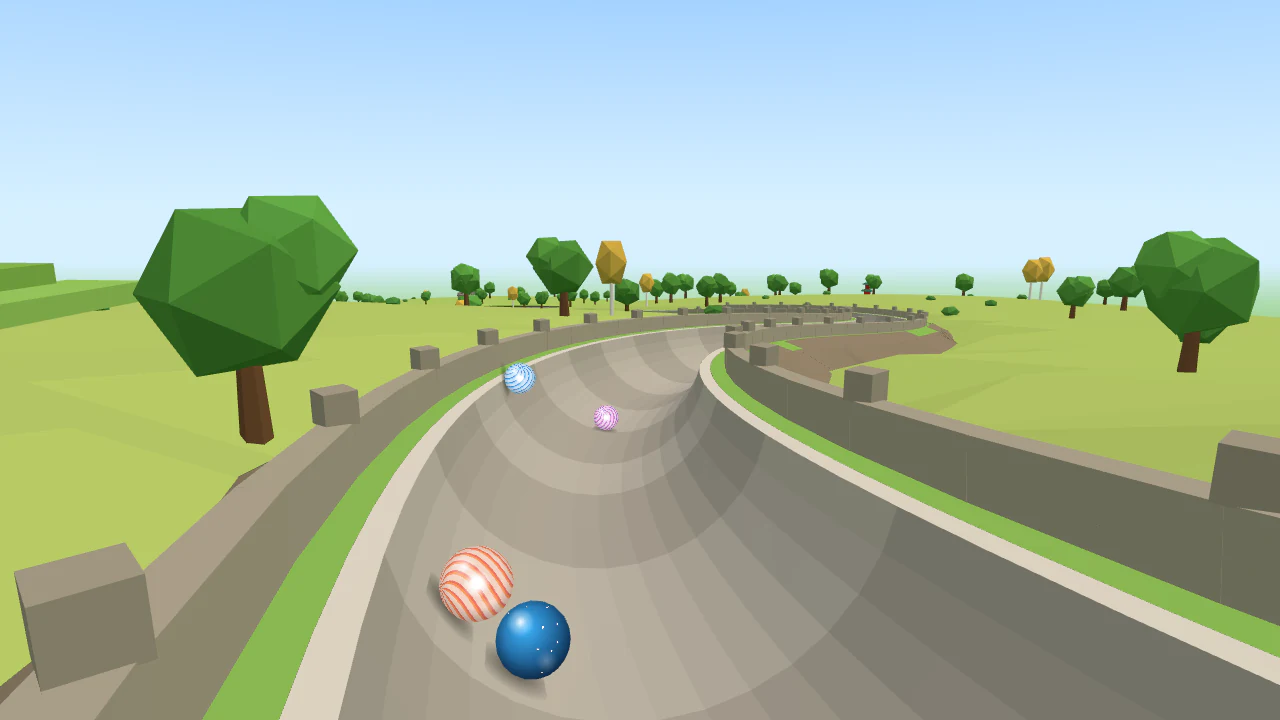
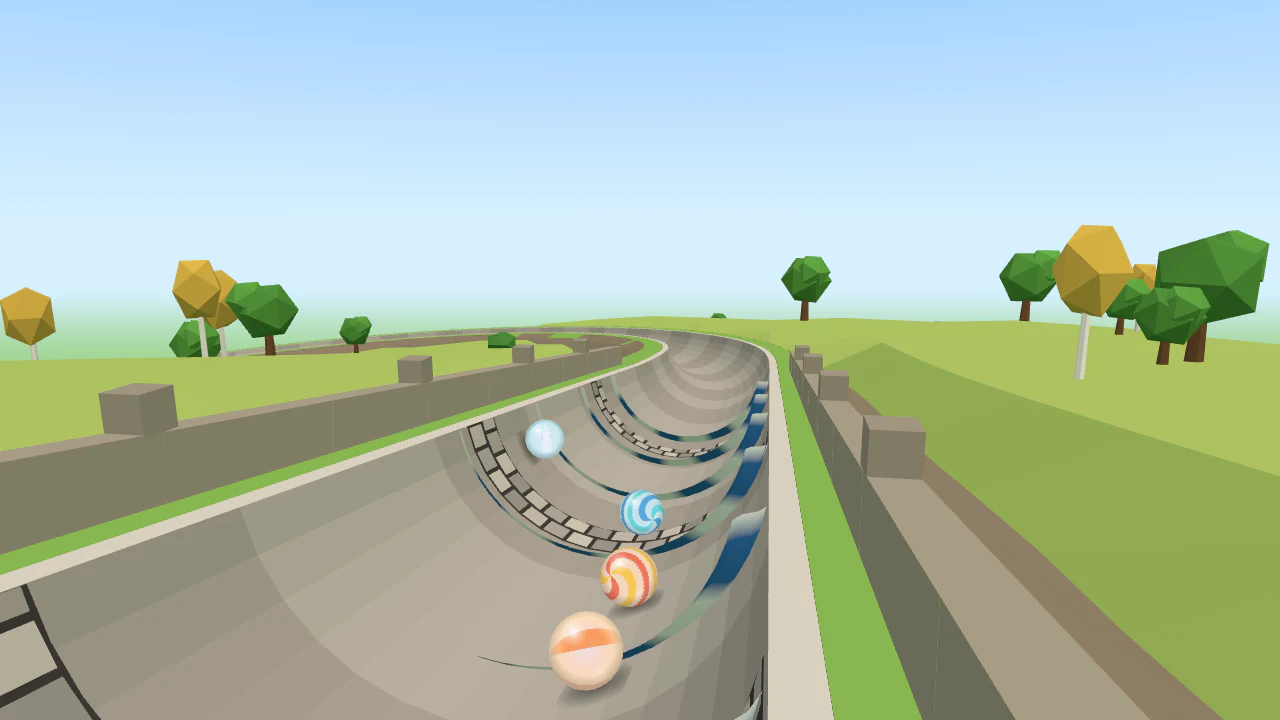
China Wall Twister: its own layout and opening; its records start again
Until now physically the same track as Rio Jungle Rumble. Out through a gate
in the Wall (the tunnel-launch start, the field let go in waves) past the
pandas and lanterns, along the Wall and down its steps, a sweep past the
pagoda, the board-game run, the fortune-cat hairpin, up over a ridge and
through the dragon (the big feature), the pagoda spiral, S-bends past the
rice terraces to the Temple of Heaven. Full report 50/50; Wild 40. Data
updates 2027-07-23. Off the known failures.

Claude-Session: https://claude.ai/code/session_011vSSkqNPL9kncfzrwF15wS

diff --git a/src/tracks/china-wall-twister.js b/src/tracks/china-wall-twister.js
@@ -5,8 +5,8 @@
 // fortune cat stays; the dragon is a tunnel through its body, in at the tail and out of
 // the mouth, so every marble goes through and finishes.
 const {
-  track, plunge, straight, sBends, sweep, spiral, hairpin, splitter, runIn,
-  pileUp, swipe, slalom, peg, boost, bump, paint,
+  track, opening, plunge, straight, climb, sBends, sweep, spiral, hairpin, runIn,
+  swipe, slalom, peg, brake, paint, steps,
 } = require('../trackKit');
 
 module.exports = track({
@@ -20,8 +20,9 @@ module.exports = track({
   variants: ['fog', 'sunset'],
   signature: 'Dragon',
   tvCameras: [
-    { section: 'Dragon', at: 0.8, side: 'left', distance: 6, height: 12 },
-    { section: 'Watchtower splitter', at: 0.8, side: 'right', distance: 6, height: 5 },
+    // (Out of the dragon's mouth, looking back up into it at the field pouring out.)
+    { section: 'Pagoda spiral', at: 0.2, side: 'left', distance: 6, height: 12 },
+    { section: 'Pagoda sweep', at: 0.5, side: 'right', distance: 6, height: 6 },
   ],
   billboardFrame: 'plain',
   // The gate on a watchtower terrace on the Wall, a red-columned hipped-roof hall behind the
@@ -29,27 +30,31 @@ module.exports = track({
   start: { landmark: 'wudian-hall', scenery: ['battlements'], gate: 'stalls', shots: { countdown: 'front', launch: 'look-back' } },
   finish: { landmark: 'temple-of-heaven', scenery: ['forbidden-city'] },
   designChanges: [
-    'A few pandas on the Wall plunge (a pile-up) rather than one, then red lanterns on posts glanced off like slalom gates: with one panda the strongest marbles win too often and the field reaches the splitter sorted by strength.',
+    'Its own layout and opening (Moses, 15 Nov 2026: World Tour re-layouts): out through a gate in the Wall (the tunnel-launch start, the field let go in waves) past the pandas and lanterns, along the Wall and down its steps, a sweep past the pagoda, the board-game run, the fortune-cat hairpin, up over a ridge and through the dragon (the big feature: a long drop through its body, in at the tail and out of the mouth), the pagoda spiral, S-bends past the rice terraces and on to the Temple of Heaven.',
+    'A few pandas at the gate (a pile-up), then red lanterns on posts glanced off like slalom gates.',
   ],
+  // (The tunnel-launch start: down to a gate in the Wall and through it; let go in jittered waves, a new order every
+  // race.)
+  opening: opening('tunnel-launch', {
+    costumes: { block: 'panda', slalom: 'lantern-pole' },
+    names: { portal: 'To the Wall gate', tunnel: 'Through the gate' },
+    waves: { groups: 5, gap: 0.14, jitter: 0.1 },
+  }),
   sections: [
     {
-      name: 'Wall plunge', shape: plunge(80, { grade: 0.6 }),
-      obstacles: [pileUp({ costume: 'panda', at: 0.42 }), slalom({ costume: 'lantern-pole', from: 0.55, to: 0.97, count: 6, loss: 0.3 })],
-      landmarks: [{ name: 'watchtower', at: 0.6, side: 'left', distance: 12 }], scenery: ['battlements'],
-    },
-    { name: 'Ridge S-bends', shape: sBends({ first: 'left', radius: 75, degrees: 80, grade: 0.13 }), scenery: ['battlements'], billboards: 1, landmarks: [{ name: 'rice-terraces', at: 0.3, side: 'right', distance: 30 }] },
-    {
-      name: 'Watchtower splitter', shape: splitter({ side: 'left', balance: { tipOffset: -0.8, left: { drag: 1.32, scrub: 1.32 }, right: { drag: 0.42, scrub: 0.72 } } }),
-      around: 'watchtower',
+      name: 'Along the Wall', shape: straight(70, { grade: 0.15 }), scenery: ['battlements'], billboards: 1,
+      features: [brake({ at: 0.03, length: 8, drag: 0.02 }), steps({ from: 0.45, to: 0.85, count: 6 })],
+      obstacles: [peg({ costume: 'lantern-pole', at: 0.15, line: 'left' }), peg({ costume: 'lantern-pole', at: 0.27, line: 'right' })],
+      landmarks: [{ name: 'watchtower', at: 0.2, side: 'left', distance: 20 }],
     },
     {
-      name: 'Pagoda sweep', shape: sweep({ side: 'right', radius: 80, degrees: 160, grade: 0.07 }), features: [boost({ at: 0.08 })], billboards: 2,
-      landmarks: [{ name: 'pagoda', at: 0.4, side: 'left', distance: 22 }],
+      name: 'Pagoda sweep', shape: sweep({ side: 'right', radius: 80, degrees: 130, grade: 0.13 }), billboards: 1,
+      landmarks: [{ name: 'pagoda', at: 0.4, side: 'left', distance: 30 }],
     },
     {
       // A Go board, then a Xiangqi board, painted on a gently sloping stretch; a few stones and pieces
       // lie on them (glancing hits). It is also the braking zone before the hairpin.
-      name: 'Board-game run', shape: straight(90, { grade: 0.12 }), billboards: 1,
+      name: 'Board-game run', shape: straight(90, { grade: 0.14 }), billboards: 1,
       features: [paint({ from: 0.02, to: 0.48, look: 'go-board' }), paint({ from: 0.52, to: 0.98, look: 'xiangqi' })],
       obstacles: [
         peg({ costume: 'go-stone', at: 0.22, line: 'left' }), peg({ costume: 'go-stone', at: 0.32, line: 'right' }),
@@ -60,9 +65,20 @@ module.exports = track({
       name: 'Fortune-cat hairpin', shape: hairpin({ side: 'left' }), obstacles: [swipe({ costume: 'fortune-cat', side: 'high' })],
       landmarks: [{ name: 'lantern-row', at: 0.5, side: 'right', distance: 6 }],
     },
-    { name: 'Dragon', shape: plunge(110, { grade: 0.38, from: 0.16 }), tunnel: 'dragon' },
-    { name: 'Pagoda spiral', shape: spiral({ side: 'right', radius: 45, grade: 0.17 }), around: 'pagoda' },
-    { name: 'Final plunge', shape: plunge(90, { grade: 0.28, from: 0.17 }), features: [bump({ at: 0.45 }), bump({ at: 0.7 })], scenery: ['forbidden-city'] },
+    { name: 'Up the ridge', shape: climb(12, { grade: -0.05, after: 0.3 }), scenery: ['battlements'] },
+    // The track's big feature: a long drop through the dragon, in at the tail and out of the mouth.
+    { name: 'Dragon', shape: plunge(100, { grade: 0.38, from: 0.16 }), tunnel: 'dragon' },
+    { name: 'Pagoda spiral', shape: spiral({ side: 'right', radius: 45, grade: 0.15 }), around: 'pagoda' },
+    {
+      name: 'Rice-terrace S-bends', shape: sBends({ first: 'left', radius: 70, degrees: 80, grade: 0.13 }), billboards: 1,
+      landmarks: [{ name: 'rice-terraces', at: 0.3, side: 'right', distance: 30 }],
+      obstacles: [peg({ costume: 'lantern-pole', at: 0.3, line: 'left' }), peg({ costume: 'lantern-pole', at: 0.7, line: 'right' })],
+    },
+    {
+      name: 'To the temple', shape: straight(75, { grade: 0.15 }), scenery: ['forbidden-city'], billboards: 1,
+      features: [brake({ at: 0.05, length: 12, drag: 0.02 })],
+      obstacles: [slalom({ costume: 'lantern-pole', from: 0.5, to: 0.9, count: 3, loss: 0.3 })],
+    },
     { name: 'Finish', shape: runIn(), scenery: ['forbidden-city'] },
   ],
 });

diff --git a/test/trackKit.test.js b/test/trackKit.test.js
@@ -56,7 +56,7 @@ test('every kit track opens with Bobsleigh Run\'s starting ramp, gate, channel a
     // (The staggered drop and the varied starts let the field go in waves: their funnel has that one setting more.
     // Any other opening only where its track asks for them, listed here: Nevada Drag Strip's crest start.)
     const { waves, ...rest } = funnel;
-    if (waves) assert.ok(['staggered-drop', 'clean-drop', 'peg-drop', 'pipe-drop', 'rolling-start', 'chicane-start', 'rumble-start'].includes(t.physics.kit.opening) || ['nevada-drag-strip', 'hudson-highlands-run', 'iguazu-devils-throat', 'chao-phraya-dawn-spiral', 'blyde-potholes-spiral', 'kings-canyon-lost-city', 'huashan-plank-walk', 'etna-valle-del-bove', 'tianmen-heavens-gate', 'sunken-ruins', 'are-run', 'greenland-expedition', 'dubai-twister', 'rio-jungle-rumble', 'crystal-grotto', 'moon-base'].includes(t.slug), `${t.slug}: waves at the gate`);
+    if (waves) assert.ok(['staggered-drop', 'clean-drop', 'peg-drop', 'pipe-drop', 'rolling-start', 'chicane-start', 'rumble-start'].includes(t.physics.kit.opening) || ['nevada-drag-strip', 'hudson-highlands-run', 'iguazu-devils-throat', 'chao-phraya-dawn-spiral', 'blyde-potholes-spiral', 'kings-canyon-lost-city', 'huashan-plank-walk', 'etna-valle-del-bove', 'tianmen-heavens-gate', 'sunken-ruins', 'are-run', 'greenland-expedition', 'dubai-twister', 'rio-jungle-rumble', 'china-wall-twister', 'crystal-grotto', 'moon-base'].includes(t.slug), `${t.slug}: waves at the gate`);
     if (!['funnel-drop', 'staggered-drop'].includes(t.physics.kit.opening)) assert.deepEqual(rest, tmFunnel);
     assert.deepEqual(t.physics.gate, bob.physics.gate);
     assert.equal(t.physics.collisions, true);

diff --git a/test/samenessAllTracks.test.js b/test/samenessAllTracks.test.js
@@ -39,7 +39,6 @@ const KNOWN = {
 
   'paris-eiffel-tower-run': ['opening', 'opening-kind', 'layout'],
   'amazon-water-run': ['layout'],
-  'china-wall-twister': ['opening', 'opening-kind', 'layout'],
   // Grand Prix (one design: Dubai's; Stockholm, Lagos, Istanbul, Sydney, Nairobi, Delhi, Sahara and Wyrmwood Hollow have their own since 6–7 Nov 2026).
   'dubai-marble-grand-prix': ['opening', 'opening-kind', 'layout'],
   'elderglade-marble-grand-prix': ['opening-kind'], // (its opening and layout are its own since Sydney, Lagos and Stockholm got theirs, 7 Nov 2026)

diff --git a/docs/06-decisions.md b/docs/06-decisions.md
@@ -4,7 +4,7 @@
 
 | Date | Decision | Why |
 |---|---|---|
-| 2026-11-15 | **World Tour re-layouts** (Moses, 21:20: every World Tour pack track still on the sameness test's known failures gets its own layout and opening, with a signature feature from the real place, as the Grand Prix re-layouts; then seven new World Tour tracks to fill the pack to 20). Each keeps its name, slug and look; a `--relayout` data update starts its records again (`tracks.records_since`), and a `<slug>-to-world-tour` update sets its new wildness (the pack script now takes a kit track with no series marker as World Tour, as the server does). Done: **Åre Run** (Wild 43, was Easy 29: a rumble start down the summit moguls, the hairpin, a sweep under the gondola, down the World Championship slope as the big feature, the funicular spiral; `2027-07-18-…`), **Greenland Expedition** (Wild 44: a snowdrift start, the sand-trap opening, past the sled dogs, the ice cave as the big feature, a long steep drop inside the glacier; `2027-07-19-…`), **Park City Run** (Wild 37: a rolling start from the lift station, down the old silver mine's shaft as the big feature; `2027-07-20-…`), **Dubai Twister** (Wild 39: a sand-trap start through the dunes, up a red dune and down its face, the Twister spiral round the twisting tower as the big feature; the falcon no longer swoops at the hairpin, as knocked marbles fell too far behind; `2027-07-21-…`), **Rio Jungle Rumble** (Extreme 47: a rumble start down the jungle path, the Selarón Steps, the turn right round Guanabara Bay under the cable car as the big feature; `2027-07-22-…`). | The old World Tour tracks were built from one design and raced alike (several pairs identical, nine with the same opening). |
+| 2026-11-15 | **World Tour re-layouts** (Moses, 21:20: every World Tour pack track still on the sameness test's known failures gets its own layout and opening, with a signature feature from the real place, as the Grand Prix re-layouts; then seven new World Tour tracks to fill the pack to 20). Each keeps its name, slug and look; a `--relayout` data update starts its records again (`tracks.records_since`), and a `<slug>-to-world-tour` update sets its new wildness (the pack script now takes a kit track with no series marker as World Tour, as the server does). Done: **Åre Run** (Wild 43, was Easy 29: a rumble start down the summit moguls, the hairpin, a sweep under the gondola, down the World Championship slope as the big feature, the funicular spiral; `2027-07-18-…`), **Greenland Expedition** (Wild 44: a snowdrift start, the sand-trap opening, past the sled dogs, the ice cave as the big feature, a long steep drop inside the glacier; `2027-07-19-…`), **Park City Run** (Wild 37: a rolling start from the lift station, down the old silver mine's shaft as the big feature; `2027-07-20-…`), **Dubai Twister** (Wild 39: a sand-trap start through the dunes, up a red dune and down its face, the Twister spiral round the twisting tower as the big feature; the falcon no longer swoops at the hairpin, as knocked marbles fell too far behind; `2027-07-21-…`), **Rio Jungle Rumble** (Extreme 47: a rumble start down the jungle path, the Selarón Steps, the turn right round Guanabara Bay under the cable car as the big feature; `2027-07-22-…`), **China Wall Twister** (Wild 40: a tunnel-launch start through a gate in the Wall, along the Wall and down its steps, the dragon drop as the big feature; `2027-07-23-…`). | The old World Tour tracks were built from one design and raced alike (several pairs identical, nine with the same opening). |
 | 2026-11-15 | **Seven more Blocks 1 tracks: the Blocks 1 pack filled to 20** (Moses, 13:38: the game-world look, our own voxel worlds with retro-game touches, never another game's names, creatures, textures or falling pieces; same rules as the Canyons and Peaks; 2 Easy, 3 Wild, 2 Extreme). Built, each pushed switched off in the Blocks 1 pack, not free: **Mushroom Grove** (Easy 24: a drop off a giant mushroom's cap), **Sunken Ruins** (Easy 17: a banked turn round a sunken dome), **Clockwork Works** (Wild 39: a splitter round a giant gear), **Crystal Grotto** (Wild 44: a spiral round a crystal spire), **Jungle Ruins** (Wild 45: a waterfall drop through falling water), **Moon Base** (Extreme 60: a 66 m drop over a crater's rim), **Neon Grid** (Extreme 57: a loop over the glowing grid, 69 overtakes); data updates `2027-07-11-…` to `2027-07-17-…`; seven new worlds, `kitLandmarksBlockWorlds.js` and three Blocks 1 start types (`portal-gate`, `block-pyramid`, `gear-tower`). On phones a Block Series cube pillar is now at most 8 cubes (each taller), as Crystal Grotto's tall pillars went over the triangle budget; looks only. Status: project doc `claude/blocks-1-seven-more-status.md`. Waiting for Moses's deploy (with the Canyons and Peaks), then his look at each preview before switching on. | With them the Blocks 1 pack has 20 besides the free Spawn Point and can go on sale. |
 | 2026-11-15 | **Six more Peaks tracks: the Peaks pack filled to 20** (Moses, 09:45: same rules as the six Canyons, and 65+ overtakes on a loop track; 2 Easy, 2 Wild, 2 Extreme; six famous mountains not yet in the series, each with two signature features, unlike the World Tour's alpine resorts). Built, each pushed switched off in the Peaks pack, not free: **Half Dome Granite Slabs** (Easy 31: a drop down the granite slabs below the face), **Huayna Picchu Terraces** (Extreme 48: a splitter round a terraced hill), **Huashan Plank Walk** (Easy 20: a dramatic banked turn round the plank walk's cliff), **Eiger North Face** (Wild 43: a banked spiral round a window pillar), **Etna Valle del Bove** (Extreme 50: a drop into the Valle del Bove), **Tianmen Heaven's Gate** (Wild 41: a loop under the great arch, 69 overtakes); data updates `2027-07-05-…` to `2027-07-10-…`; six palettes and `kitLandmarksPeak2.js`; the pack script knows Peaks. Huayna came out Extreme and Huashan Easy, Etna Extreme and Tianmen Wild (planned otherwise); the mix stays 2/2/2. Status: project doc `claude/peaks-six-more-status.md`. Waiting for Moses's deploy (with the Canyons), then his look at each preview before switching on. | With them the Peaks pack has 20 besides the free Everest Icefall Run and can go on sale. |
 | 2026-11-15 | **A coaster track can have a loop** (Kings Canyon Lost City, the first): over the loop's span the coaster's rails, spine, ties and towers stop (3 m either side), as the loop draws its own track and steel along its own path; before, they ran along the ground under it, 64 m with no rim under the rails, and blocked the follow camera. The rails check (`railGaps`) now finds each rail line's first point along the whole track (by height too), so lines that start after a loop are checked where they are. Looks only: race results unchanged. | A loop in a canyon is the Canyons series' loop; the coaster kit had never met one. |

diff --git a/docs/README.md b/docs/README.md
@@ -8,7 +8,7 @@
 
 **Where it stands:**
 - **Website:** live at marblespins.com (Vercel builds every push to `Main`; production is at `548aeb8`, 15 Nov). Soft start (social media, a daily set of videos, 10–20 invited test pilots) since the week of 26 Oct. **Official launch 1 Dec 2026**, with the Holiday Season, the season pass and the apps. GA4 on since 31 Oct (after cookie consent); the Meta Pixel off.
-- **Tracks: 152 live in ten series** (World Tour, Grand Prix, Coasters, Canyons, Blocks, Track and Field, Rivers, Peaks, Pinball, Arcade), since the 9 motorsport Grand Prix tracks were switched on on 13 Nov; 191 in the database. **Switched off, waiting for Moses:** five more Rivers tracks (on the server since 13 Nov: Yukon Five Finger Run, Arno Old Bridge Run, Chao Phraya Dawn Spiral, Hudson Highlands Run, Iguazú Devil's Throat) and six more Canyons tracks (on Main, **waiting for the server deploy**: Bryce Hoodoo Run, Blyde Potholes Spiral, Taroko Marble Gorge, Samaria Iron Gates, Kings Canyon Lost City, the first coaster track with a loop, and Sumidero Christmas Falls; data updates `2027-06-29-…` to `2027-07-04-…`) and six more Peaks tracks (on Main, **waiting for the same deploy**: Half Dome Granite Slabs, Huayna Picchu Terraces, Huashan Plank Walk, Eiger North Face, Etna Valle del Bove, Tianmen Heaven's Gate; data updates `2027-07-05-…` to `2027-07-10-…`) and seven more Blocks 1 tracks (on Main, **waiting for the same deploy**: Mushroom Grove, Sunken Ruins, Clockwork Works, Crystal Grotto, Jungle Ruins, Moon Base, Neon Grid; data updates `2027-07-11-…` to `2027-07-17-…`); World Tour re-layouts (on Main, **waiting for the same deploy**; their records start again): Åre Run, Greenland Expedition, Park City Run, Dubai Twister, Rio Jungle Rumble (`2027-07-18-…` to `2027-07-22-…`). Moses deploys Canyons, Peaks, Blocks 1 and the World Tour work together. The 31 holiday tracks are switched on but hidden and closed until 1 Dec 00:00 Swedish time (183 live then).
+- **Tracks: 152 live in ten series** (World Tour, Grand Prix, Coasters, Canyons, Blocks, Track and Field, Rivers, Peaks, Pinball, Arcade), since the 9 motorsport Grand Prix tracks were switched on on 13 Nov; 191 in the database. **Switched off, waiting for Moses:** five more Rivers tracks (on the server since 13 Nov: Yukon Five Finger Run, Arno Old Bridge Run, Chao Phraya Dawn Spiral, Hudson Highlands Run, Iguazú Devil's Throat) and six more Canyons tracks (on Main, **waiting for the server deploy**: Bryce Hoodoo Run, Blyde Potholes Spiral, Taroko Marble Gorge, Samaria Iron Gates, Kings Canyon Lost City, the first coaster track with a loop, and Sumidero Christmas Falls; data updates `2027-06-29-…` to `2027-07-04-…`) and six more Peaks tracks (on Main, **waiting for the same deploy**: Half Dome Granite Slabs, Huayna Picchu Terraces, Huashan Plank Walk, Eiger North Face, Etna Valle del Bove, Tianmen Heaven's Gate; data updates `2027-07-05-…` to `2027-07-10-…`) and seven more Blocks 1 tracks (on Main, **waiting for the same deploy**: Mushroom Grove, Sunken Ruins, Clockwork Works, Crystal Grotto, Jungle Ruins, Moon Base, Neon Grid; data updates `2027-07-11-…` to `2027-07-17-…`); World Tour re-layouts (on Main, **waiting for the same deploy**; their records start again): Åre Run, Greenland Expedition, Park City Run, Dubai Twister, Rio Jungle Rumble, China Wall Twister (`2027-07-18-…` to `2027-07-23-…`). Moses deploys Canyons, Peaks, Blocks 1 and the World Tour work together. The 31 holiday tracks are switched on but hidden and closed until 1 Dec 00:00 Swedish time (183 live then).
 - **Server:** last deployed **13 Nov 2026, ~23:00** (code fingerprint `7abad7e4c43d`, Main `7a3342d`; 57 tables, 527 columns): the Stripe webhook's refusals logged and its readiness on `/health`. The week's other deploys (12 Nov `b5cc113debdb` and `bc1bd7ff096f`; 13 Nov ~14:20 `8d7a15a7631e`, ~18:30 `6be622039502`, ~21:45 `c25a2aa05c5b`) brought wildness and track packs, pack sales, the free set of 15, the motorsport Grand Prix tracks, where players come from and the five Rivers. Main is at fingerprint `5636207a9263`: the next deploy brings only the six Canyons tracks.
 - **Wildness and track packs:** every live track is Easy / Wild / Extreme (from 1,000 report races; 68 / 61 / 23 of the 152), shown as a badge and a picker filter. 11 packs (one per series; Pinball and Arcade separate; Blocks 1 and 2), **$7.99, or 1,990 coins + $5.99**, on the website (Stripe, test mode), Google Play and the App Store. **Free set: 15 tracks**, one or two per series. **Complete packs** (20 live besides the free ones): Blocks 2 and Grand Prix; Rivers and Canyons have 20 once their new tracks are on. **Locking and selling are off** (`TRACK_PACKS`); only complete packs lock when it is on. The website keeps saying every track is free until `PACKS_LIVE` (`client/src/shared/packWording.js`). First end-to-end test purchase (Grand Prix pack, Stripe test mode) worked on 13 Nov. Still to do: the store products, the pack terms of sale (draft at `/preview/legal-packs`), Moses's go.
 - **Apps:** iPhone and Android (Capacitor). **Android 1.0.0 (5) in Play internal testing, tested by Moses on 13 Nov:** hit and bump sounds work, the ceremony song stops (the slow-phone and sound fixes of 11–12 Nov confirmed). `client/app-version.json` and the iPhone project at 1.0.0 (5); the next build is 6 (`npm run app:version -- build`). **Store submission planned for 16–20 Nov.**
